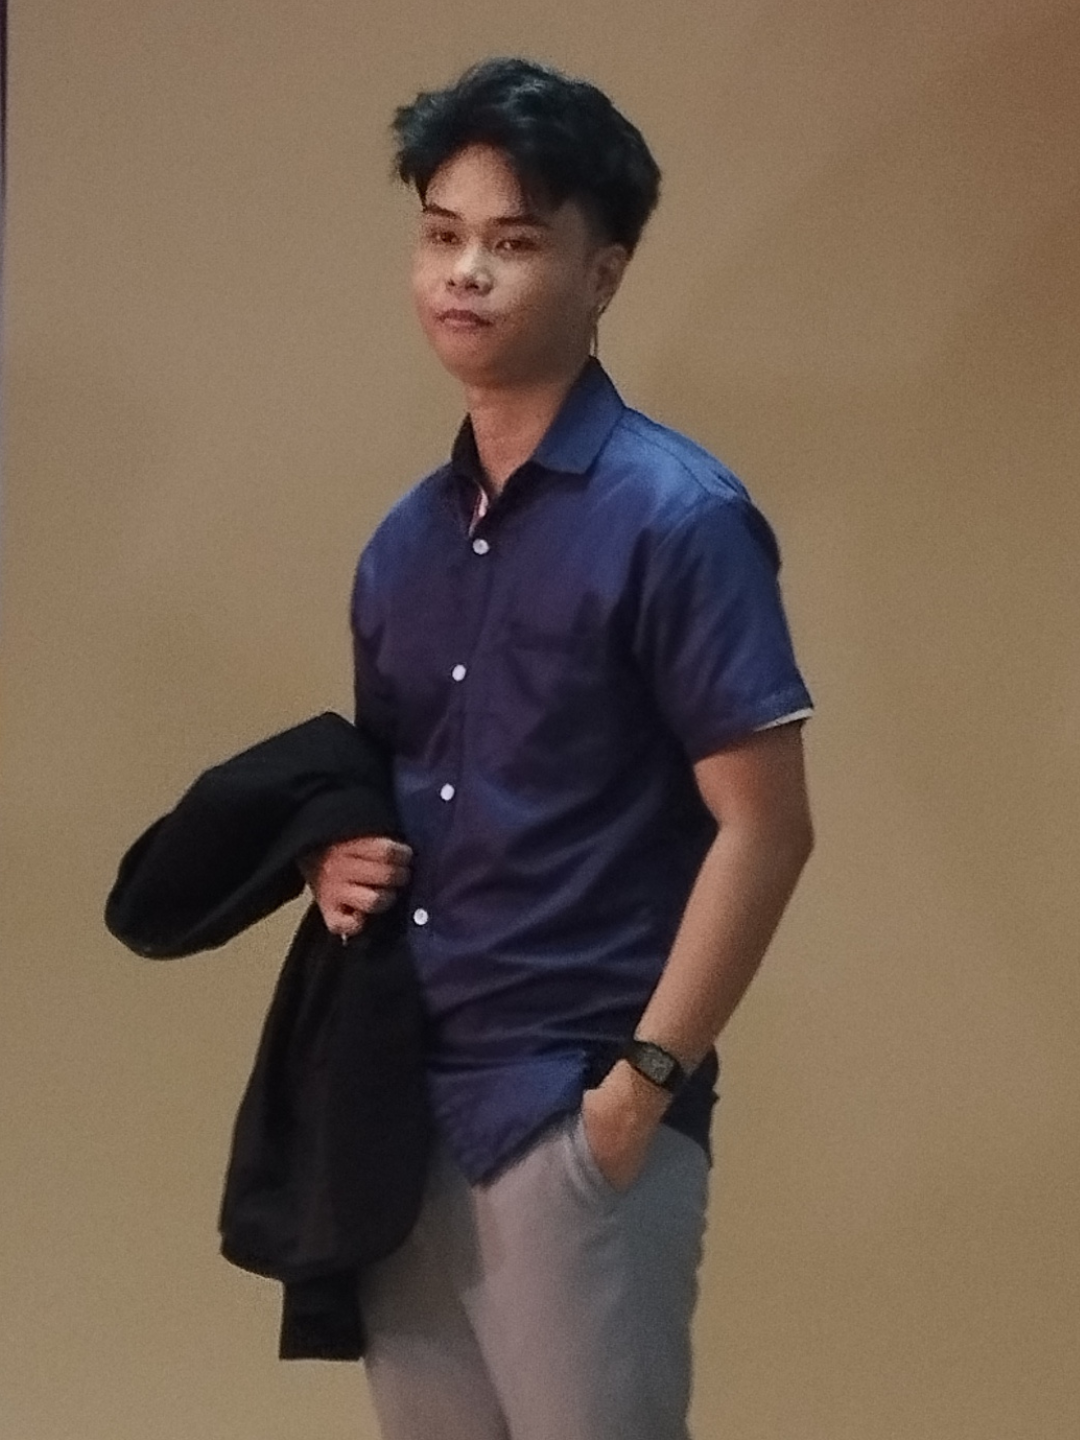
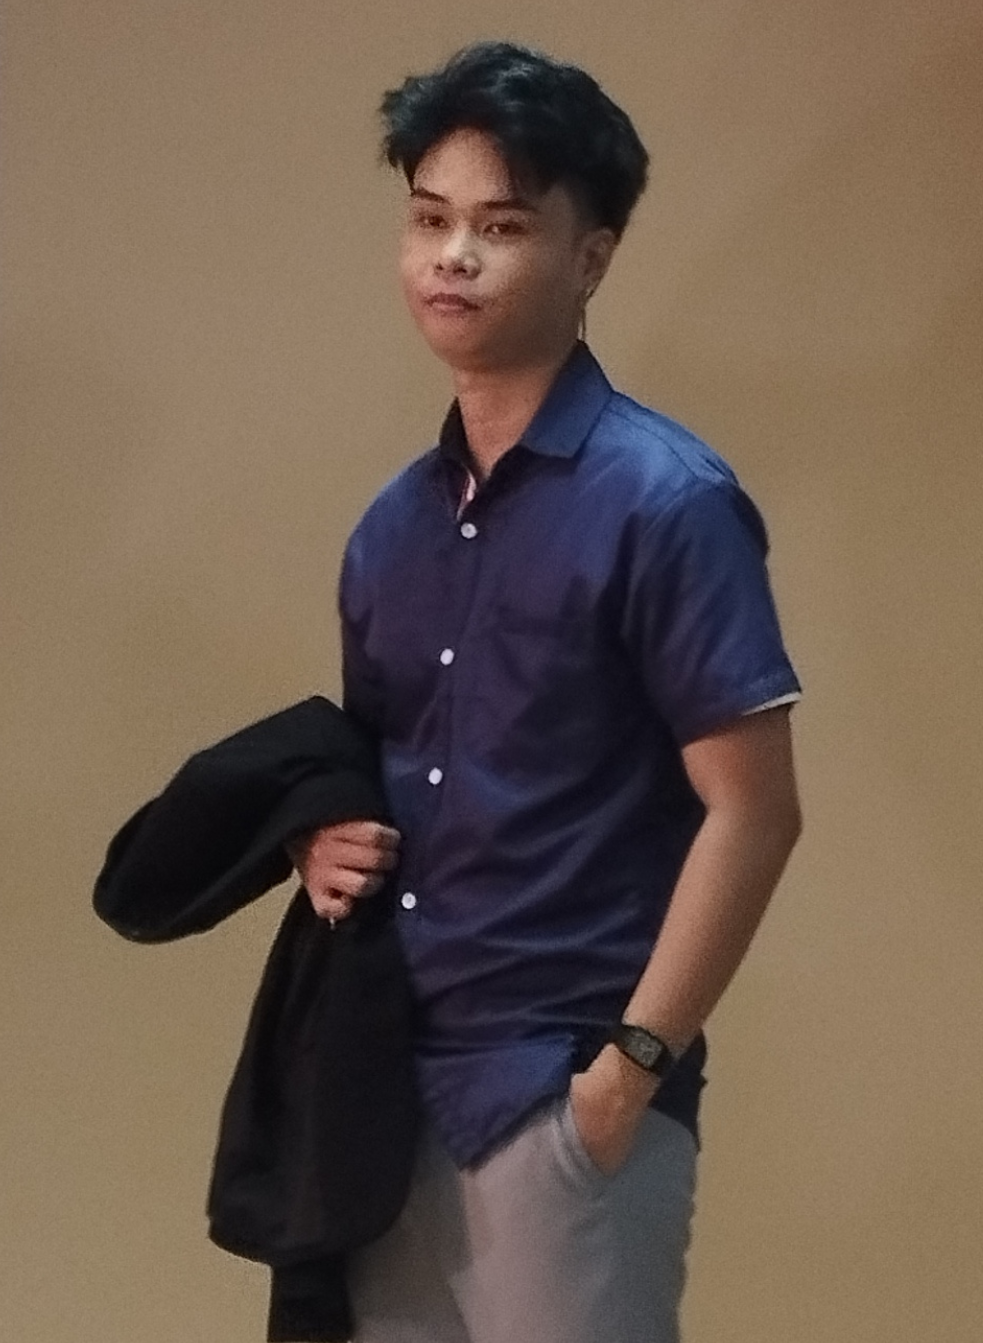
home section

Changed region(s): [[0.0916, 0.0305, 0.824, 1.0], [0.0, 0.0, 0.0305, 0.1832]]

diff --git a/index.html b/index.html
@@ -71,59 +71,61 @@
       </div>
       <!-- <button class="shadow-button">Hover me</button> -->
 
+      <!-- <section class="" id="#">
+        <div class="text-center">
+        </div>
+      </section> -->
+
       <!-- ================ HOME SECTION ================ -->
       
       <section class="home section " id="home">
-        <div class="container-fluid text-center">
+        <div class="container ">
           <div class="row">
+            <!-- left column -->
+            <div class="col-md-7">
+              <div class="home_contianer">
+                <h1 class="home_name">Melvin Porcalla</h1>
 
-            <div class="col">
-              Column
-            </div>
-            <div class="col">
-              Column
-            </div>
+                <!-- home description -->
+                <div class="home_info">
+                  <p class="home_description">
+                    <b>Frontend Developer</b> with knowledge 
+                    in web development and design, I'm committed 
+                    to delivering high-quality projects with a 
+                    keen focus on user experience.
+                  </p>
 
+                  <!-- social link icons -->
+                  <div class="home_social">
+                    <a href="https://www.facebook.com/profile.php?id=100074859700201" target="_blank" class="home_social-link">
+                      <i class="fa-brands fa-facebook-f"></i>
+                    </a>
+                    <a href="https://www.linkedin.com/in/melvin-porcalla-7012b9289/" target="_blank" class="home_social-link">
+                      <i class="fa-brands fa-linkedin"></i>
+                    </a>
+                    <a href="https://github.com/MvPorcalla" target="_blank" class="home_social-link">
+                      <i class="fa-brands fa-github"></i>
+                    </a>
+                  </div>
 
-
-            <!-- 
-            
-            <h1 class="home_name">Melvin Porcalla</h1>
-
-            <div class="home_social">
-              <a href="https://www.facebook.com/profile.php?id=100074859700201" target="_blank" class="home_social-link">
-                <i class="fa-brands fa-facebook-f"></i>
-              </a>
-              <a href="https://www.linkedin.com/in/melvin-porcalla-7012b9289/" target="_blank" class="home_social-link">
-                <i class="fa-brands fa-linkedin"></i>
-              </a>
-              <a href="https://github.com/MvPorcalla" target="_blank" class="home_social-link">
-                <i class="fa-brands fa-github"></i>
-              </a>
-            </div>
-              
-            <div class="home_info">
-              <p class="home_description">
-                <b>Frontend Developer</b> with knowledge 
-                in web development and design, I'm committed 
-                to delivering high-quality projects with a 
-                keen focus on user experience.
-              </p>
-              <a href="#about" class="home_scroll">
-                <div class="home_scroll_box">
-                  <i class='bx bx-chevron-down'></i>
+                  <!-- down button -->
+                  <a href="#about" class="home_scroll">
+                    <div class="home_scroll_box">
+                      <i class='bx bx-chevron-down'></i>
+                    </div>
+                    <span class="home_scroll_text">Scroll Down</span>
+                  </a>
                 </div>
-                <span class="home_scroll_text">Scroll Down</span>
-              </a>
+              </div>
             </div>
 
-            <div class="home_image">
-              <img src="./assets/images/me2.png" alt="image" class="home_img">
-              <div class="home_shadow"></div>
+            <!-- right column -->
+            <div class="col-md-5 mt-5 mt-md-0 text-center">
+              <div class="home_image">
+                <img src="./assets/images/me2.png" alt="image" class="home_img">  
+              </div> 
+            </div>
 
-            </div> 
-            
-            -->
           </div>
         </div>
       </section>
@@ -131,18 +133,14 @@
       <!-- ================ ABOUT SECTION ================ -->
       
       <section class="about section " id="about">
-        <div class="container-fluid grid">
-            <div class="row">
+        <div class="container-fluid">
+            <div class="row text-center">
 
               <h1>Portfolio</h1>
-              <div class="grid">
-                <div class="grid-item">Item 1</div>
-                <div class="grid-item">Item 2</div>
-                <div class="grid-item">Item 3</div>
-                <div class="grid-item">Item 4</div>
-                <div class="grid-item">Item 5</div>
-                <div class="grid-item">Item 6</div>
-              </div>
+              
+              <div class="col-md-4 bg-info">Column 1</div>
+              <div class="col-md-8 bg-warning">Column 2</div>
+            
 
             </div>
           </div>
@@ -151,7 +149,7 @@
         <!-- ================ PORTFOLIO SECTION ================ -->
       
         <section class="portfolio section " id="portfolio">
-          <div class="container-fluid grid">
+          <div class="container-fluid">
               <div class="row">
 
                 <h1>Portfolio</h1>
@@ -172,7 +170,7 @@
         <!-- ================ CONTACTS SECTION ================ -->
       
         <section class="contacts section " id="contacts">
-          <div class="container-fluid grid">
+          <div class="container-fluid">
               <div class="row">
 
                 <h1>Portfolio</h1>

diff --git a/css/style.css b/css/style.css
@@ -79,7 +79,11 @@ body::-webkit-scrollbar-thumb {
   background: var(--accent-primary);
 }
 body::-webkit-scrollbar-thumb:hover {
-  background: linear-gradient(135deg, #be123c 0%, #ea580c 20%, #15803d 40%, #0d9488 60%, #0284c7 80%, #1d4ed8 100%);
+  background: linear-gradient(135deg,
+   #be123c 0%, #ea580c 20%,
+    #15803d 40%, #0d9488 60%,
+     #0284c7 80%, #1d4ed8 100%
+     );
 }
 
 main {
@@ -92,19 +96,35 @@ main {
   padding-block: 3rem 3rem;
 }
 
-/* .grid{
-  display: grid;
-  gap: 1.5rem;
-} */
-.grid-item {
-  background-color: lightblue;
-  padding: 1rem;
-  text-align: center;
+
+
+/* ======================================== HOME ======================================== */
+.home {
+  display: flex;
+  justify-content: center; /* horizontally center */
+  align-items: center; /* vertically center */
 }
 
-.home_img{
-  width: 20rem;
+.home_image {
+  display: inline-block;
+  position: relative;
+
 }
+.home_image::before {
+  position: absolute;
+  bottom: -6%;
+  right: -8%;
+  width: 100%;
+  height: 100%;
+  border: 4px solid var(--text-base);
+  content: '';
+  z-index: -1;
+}
+.home_img {
+  width: 22rem;
+} 
+
+
 
 /* Light and Dark MODE */
 .day-night-theme {
